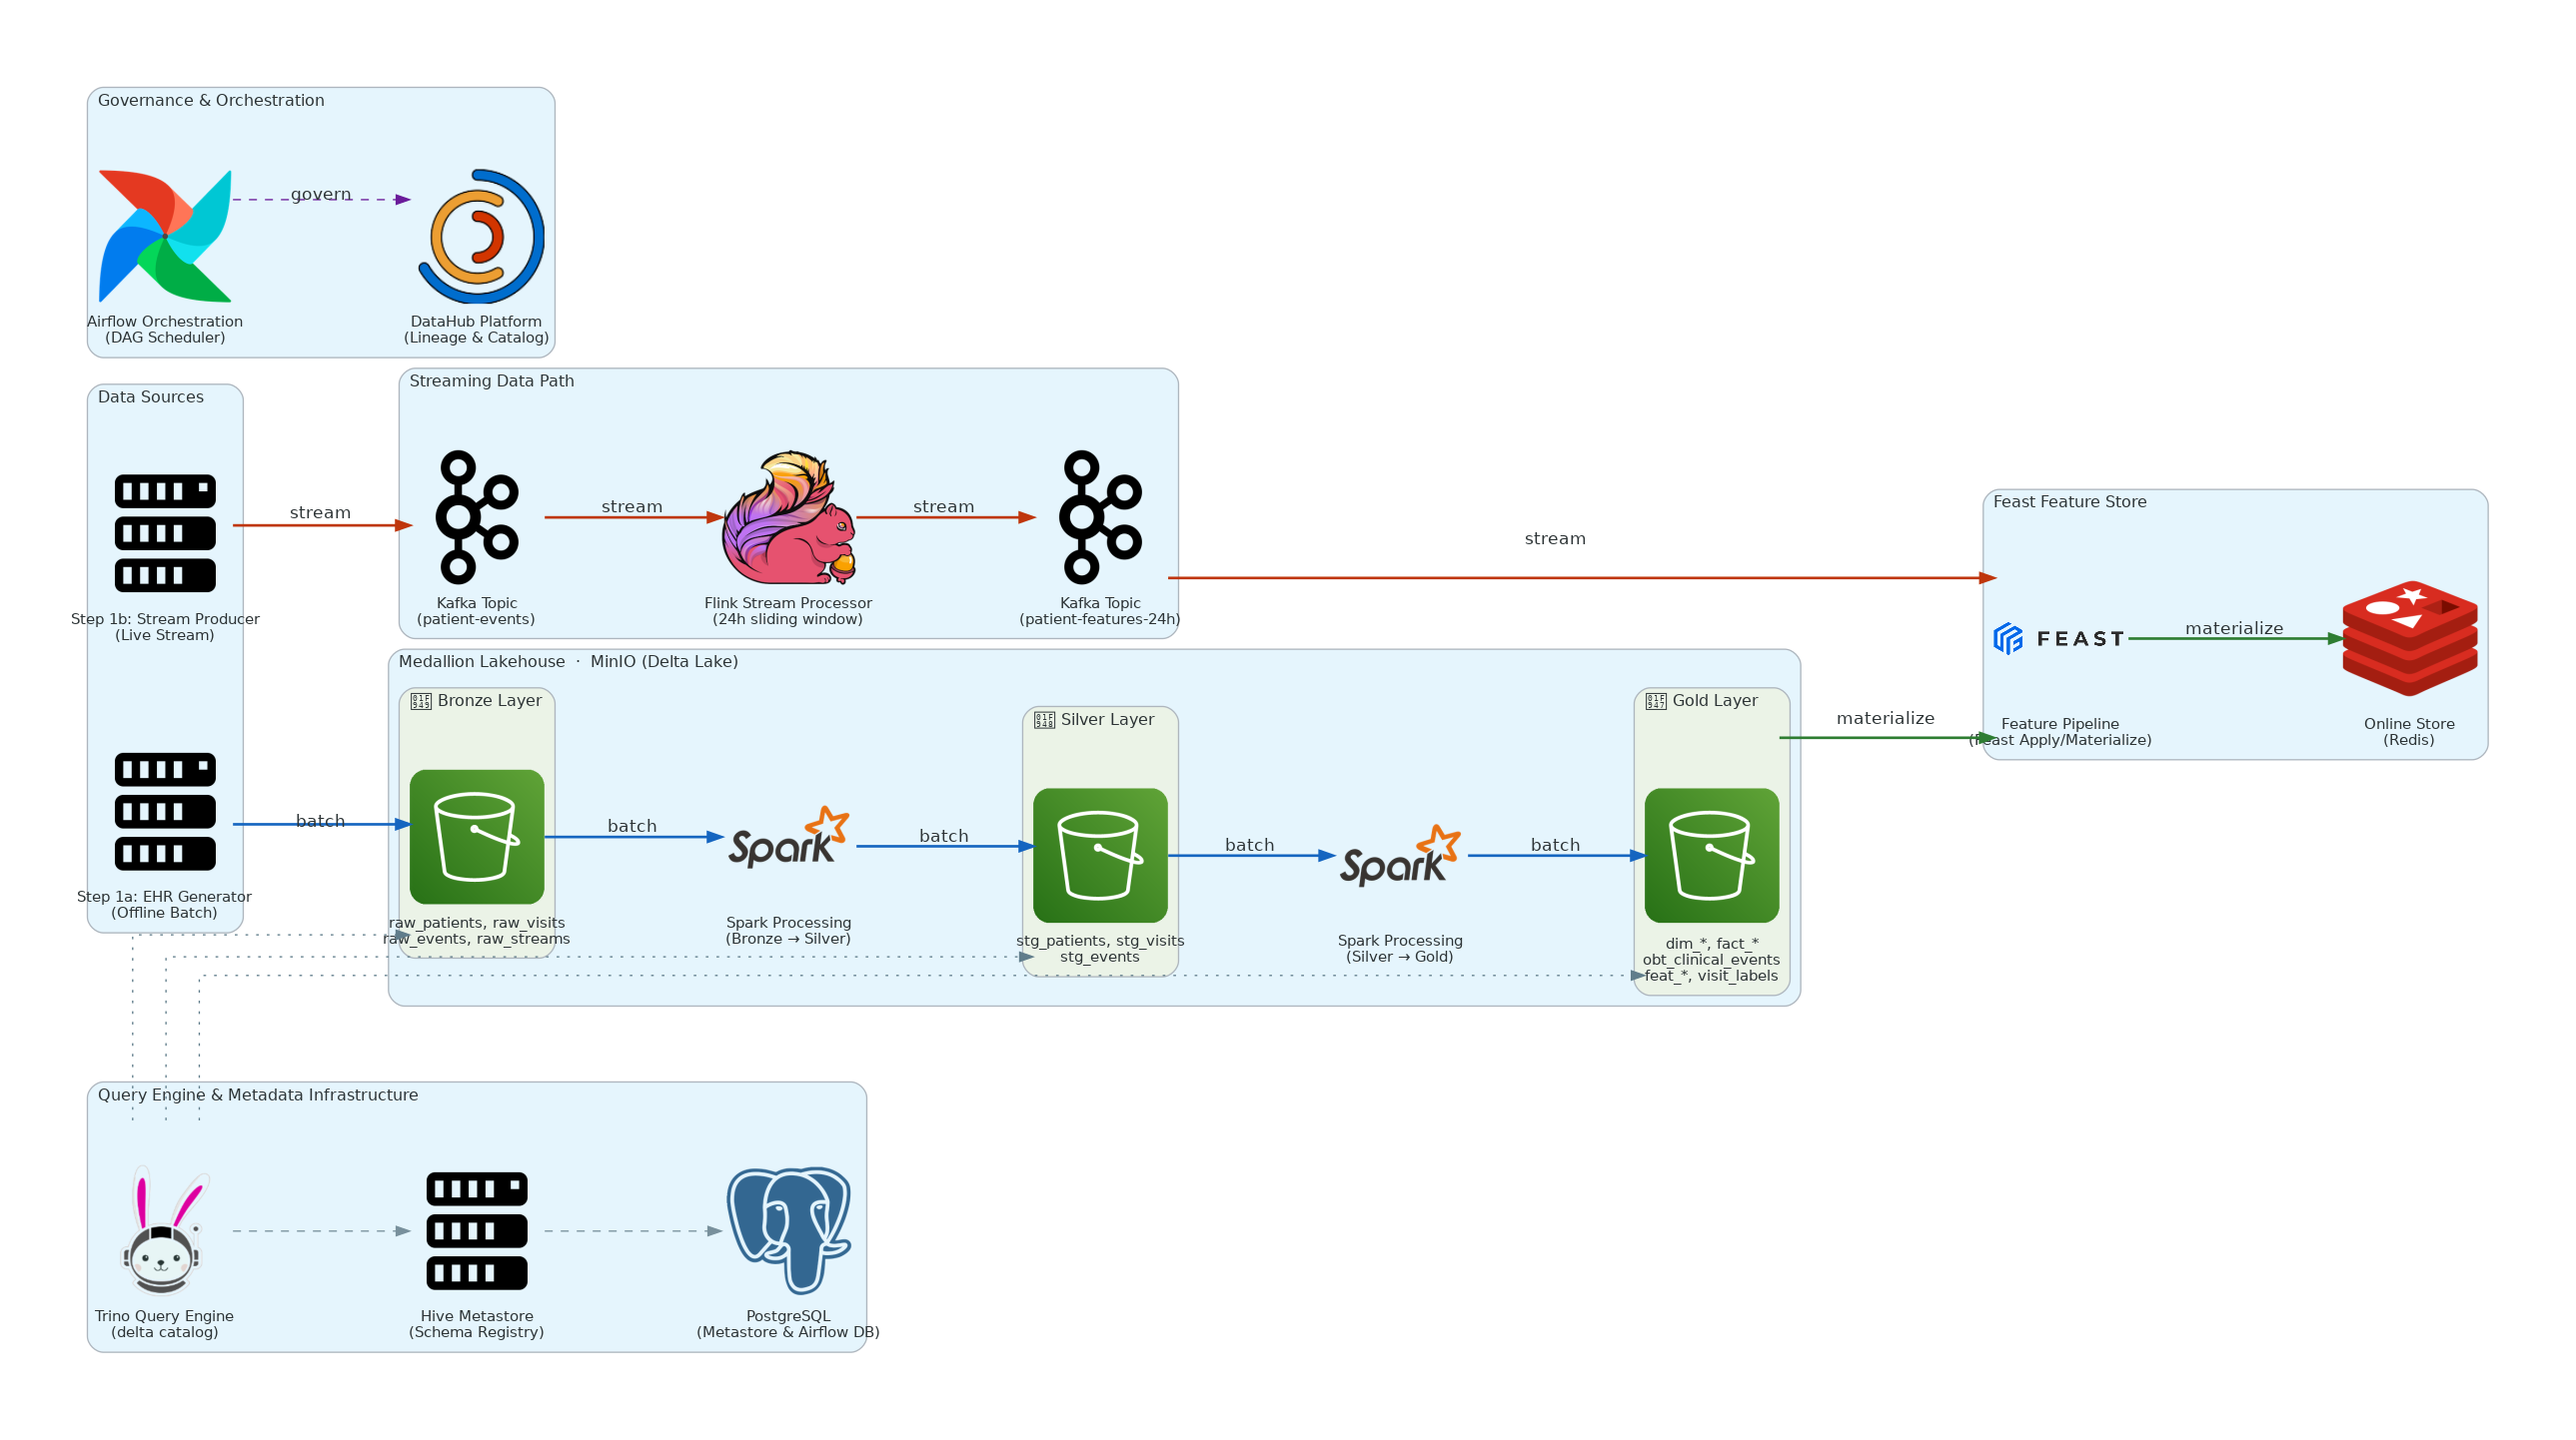
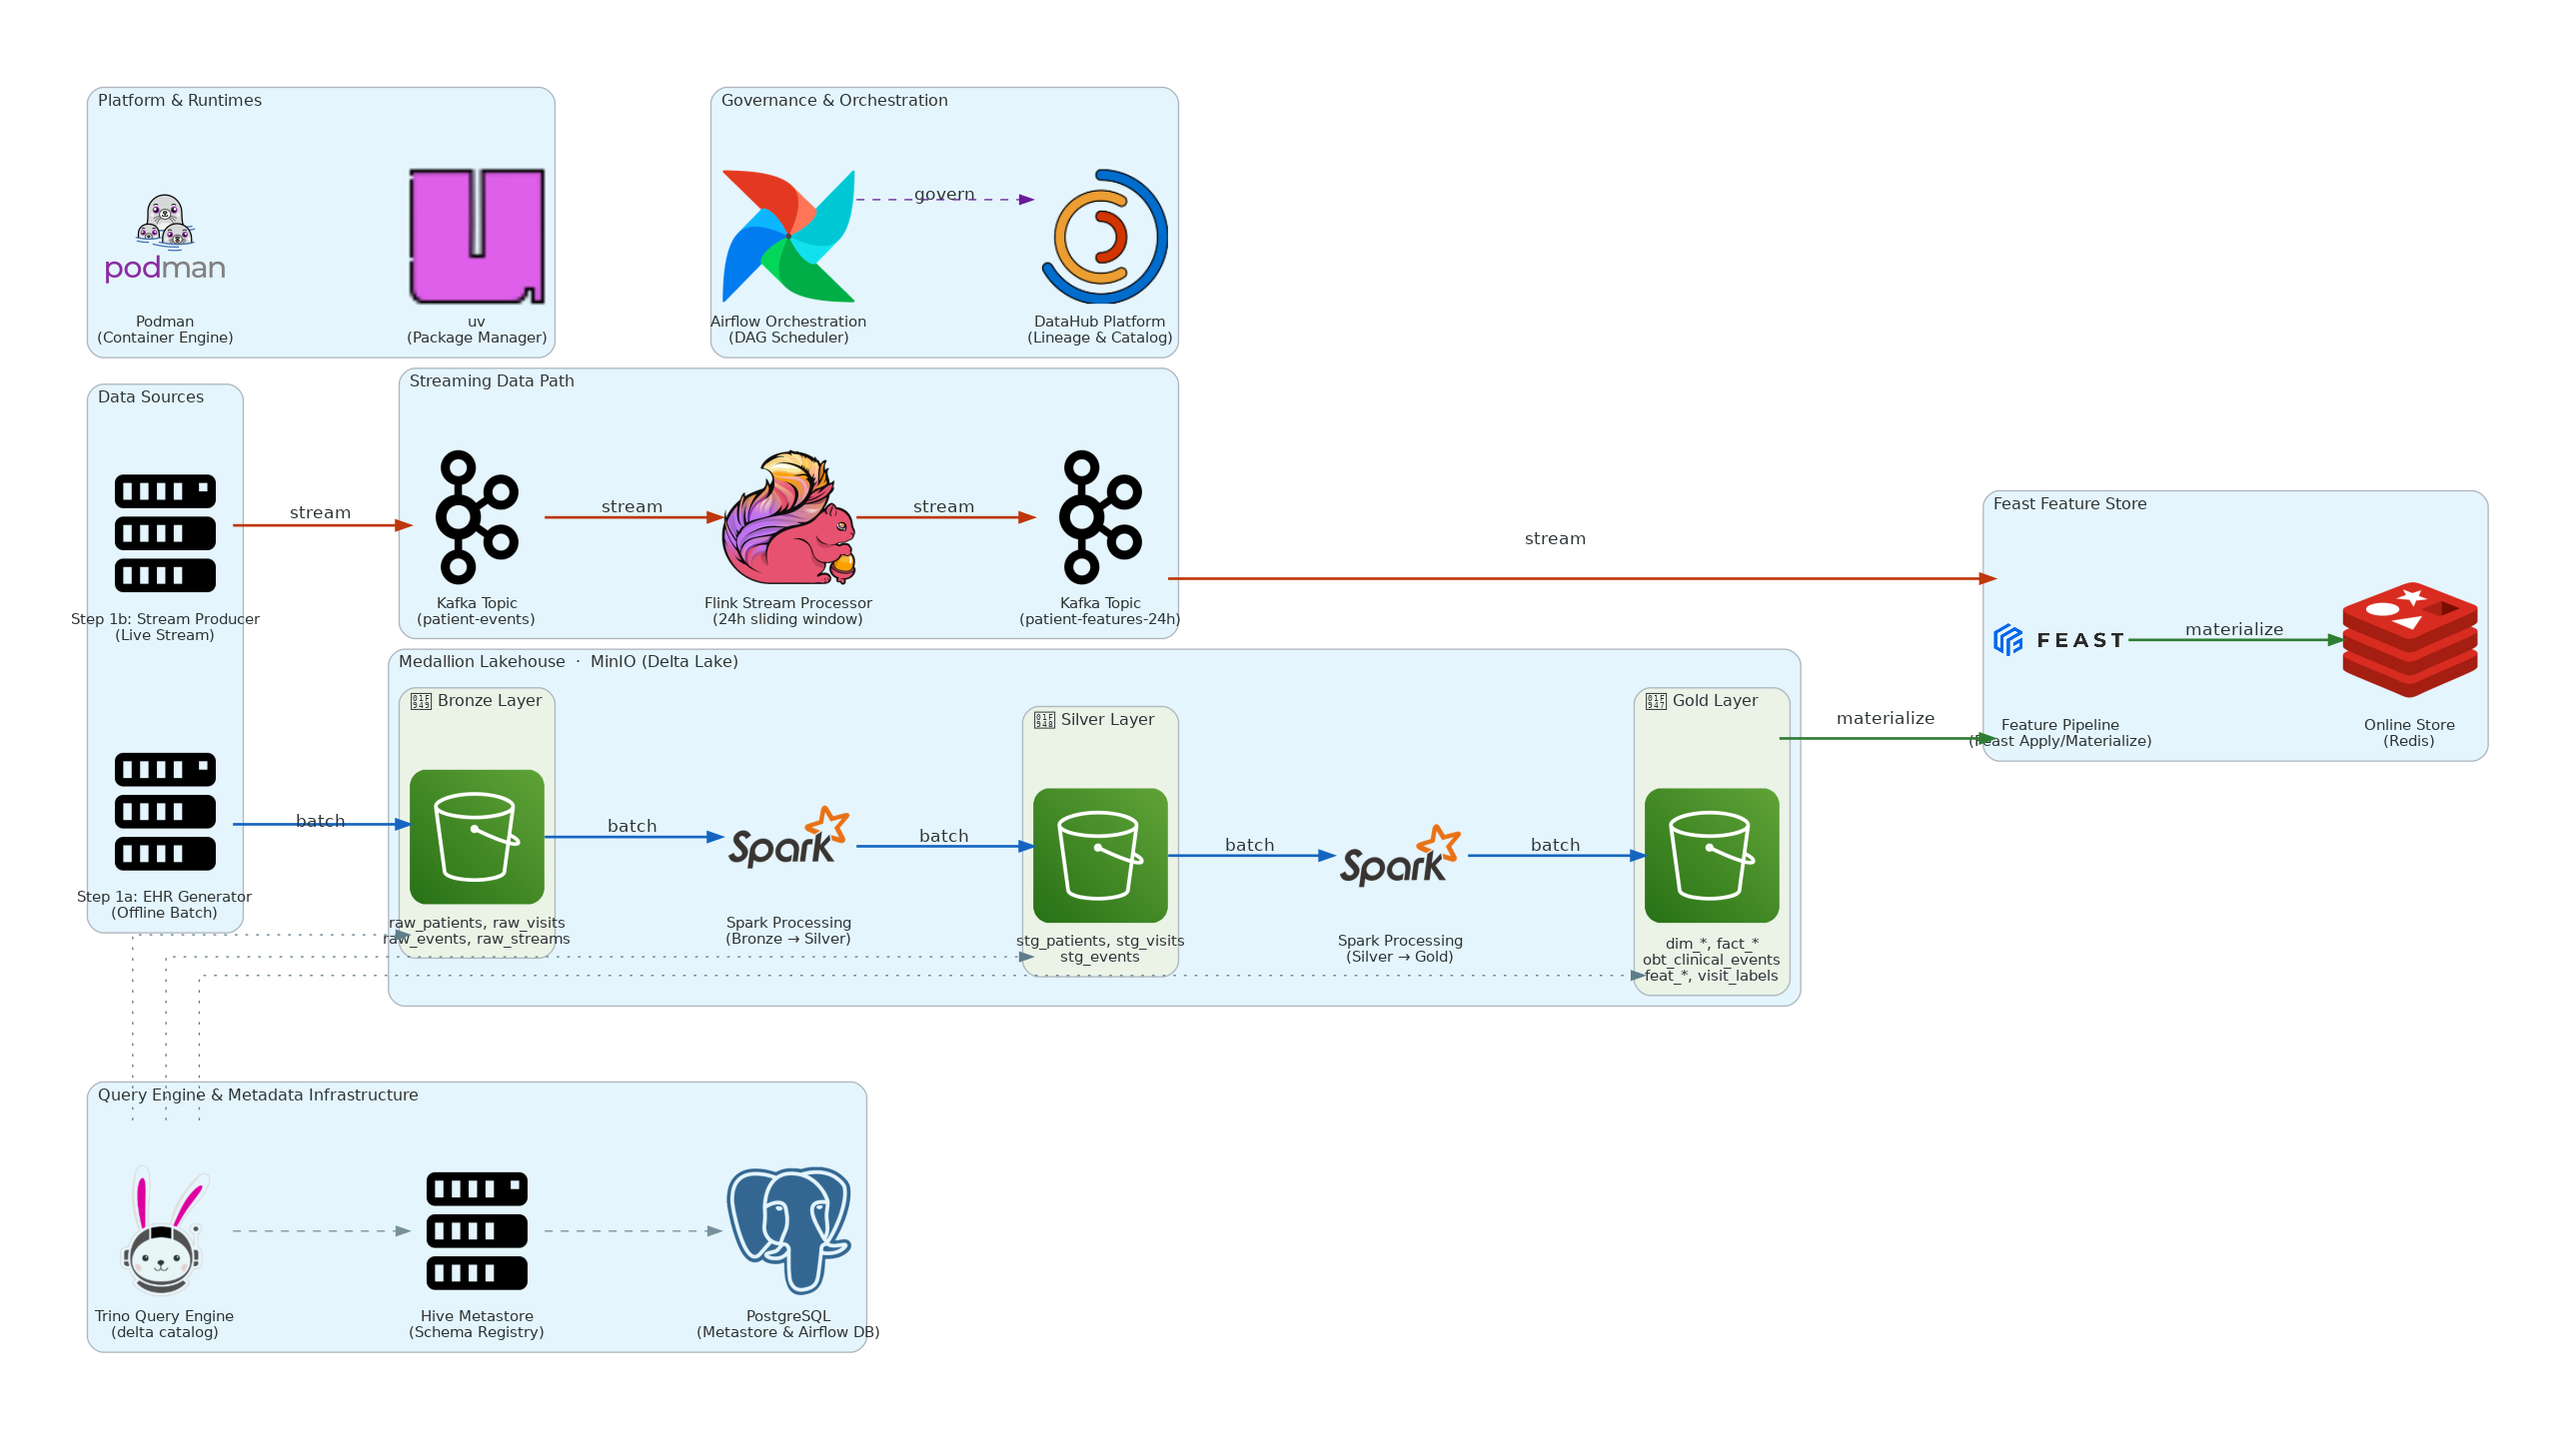
update pipeline

diff --git a/scripts/misc/render_pipeline.py b/scripts/misc/render_pipeline.py
@@ -29,6 +29,8 @@ output = str(artifacts / "pipeline_diagram")
 
 datahub_logo = str(script_dir / "logos" / "datahub.png")
 feast_logo   = str(script_dir / "logos" / "feast.png")
+podman_logo  = str(script_dir / "logos" / "podman.png")
+uv_logo      = str(script_dir / "logos" / "uv.png")
 
 # ── Graph config ──────────────────────────────────────────────────────────────
 graph_attr = {
@@ -98,6 +100,14 @@ with Diagram(
         hive_metastore = Server("Hive Metastore\n(Schema Registry)")
         postgres = PostgreSQL("PostgreSQL\n(Metastore & Airflow DB)")
 
+    # ── Platform & Runtimes ───────────────────────────────────────────────────
+    with Cluster("Platform & Runtimes"):
+        podman = Custom("Podman\n(Container Engine)", podman_logo)
+        uv_pkg = Custom("uv\n(Package Manager)", uv_logo)
+        
+        # Horizontal layout constraint
+        podman >> Edge(style="invis") >> uv_pkg
+
     # ── Governance & Orchestration ────────────────────────────────────────────
     with Cluster("Governance & Orchestration"):
         airflow  = Airflow("Airflow Orchestration\n(DAG Scheduler)")
@@ -105,6 +115,8 @@ with Diagram(
         
         # Horizontal layout constraint
         airflow >> Edge(style="invis") >> datahub
+        uv_pkg >> Edge(style="invis") >> airflow
+
 
     # ── Feature Store (Feast) ─────────────────────────────────────────────────
     with Cluster("Feast Feature Store"):
